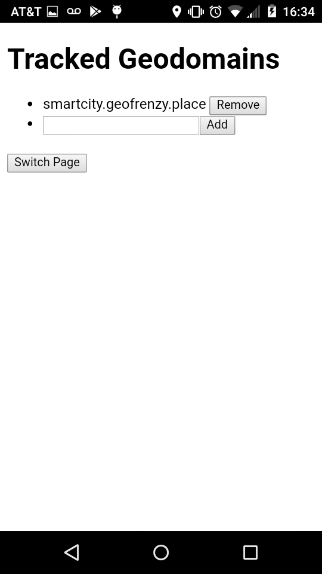
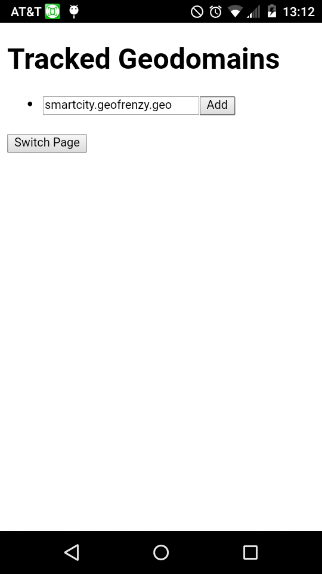
Fix documentation problem

diff --git a/README.md b/README.md
@@ -10,7 +10,7 @@ The location of the code that uses the Fencing Agent is `www/js/fencing_agent.js
 
 The app has two primary screens: A "lightbulb" screen, containing a picture of a [Blink(1) LED](https://blink1.thingm.com/), and a settings menu to select Geodomains.
 
-In this example, the device is inside of a fence belonging to `smartcity.geofrenzy.place`, which has a Requirement specifying a blue color. If the device is in the SmartFences of multiple Geodomains, the lightbulb will cycle between their colors (completing one cycle per second).
+In this example, the device is inside of a fence belonging to `smartcity.geofrenzy.geo`, which has a Requirement specifying a blue color. If the device is in the SmartFences of multiple Geodomains, the lightbulb will cycle between their colors (completing one cycle per second).
 If the device is not in any SmartFences, it will have no color, and if it's in a SmartFence whose GeoDomain has no color, it will use white for that GeoDomain.
 
 ![Screenshot of the settings page](readme_images/settings_page.png)
